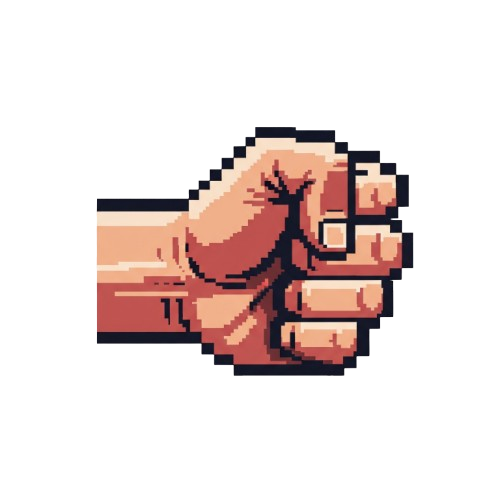
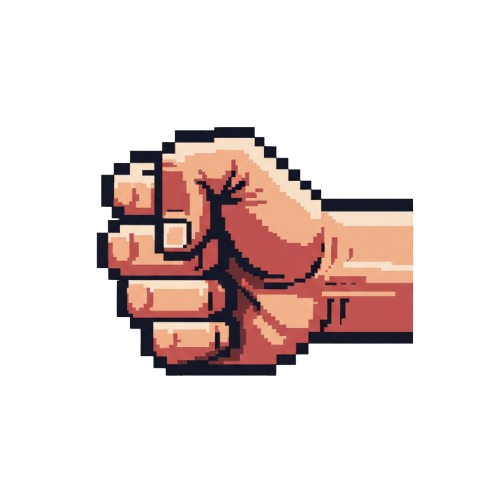
add fist

Changed region(s): [[0.18, 0.24, 0.84, 0.75]]

diff --git a/src/Items/Weapon/Fist.cpp b/src/Items/Weapon/Fist.cpp
@@ -1,29 +1,80 @@
 #include "Fist.h"
-#include <QTimer>
 
+// 构造函数：初始化我们的手动动画系统
 Fist::Fist(QObject *parent) : Weapon(parent, ":/Items/Weapon/Fist/fist.png")
 {
-    setPos(20, -90);
+    // 我们不再需要基类里的QPropertyAnimation，可以将其安全地删除
+    // 以防止它在后台引发任何问题。
+    if (animation) {
+        delete animation;
+        animation = nullptr;
+    }
+
+    setPos(-20, -90);
     setScale(0.2);
     setVisible(false);
+    isAttacking = false;
+
+    // 初始化计时器
+    animationTimer = new QTimer(this);
+    elapsedTimer = new QElapsedTimer();
+
+    // 将计时器的 timeout 信号连接到我们的动画更新函数
+    // 计时器会以大约每秒60次的频率触发，以产生流畅的动画
+    connect(animationTimer, &QTimer::timeout, this, &Fist::updateAnimation);
+    animationTimer->setInterval(1000 / 60); // 约 60 FPS
 }
 
+// attack 函数：启动手动动画
 void Fist::attack()
 {
-    if (isVisible())
-    {
+    // 如果正在攻击，则直接返回
+    if (isAttacking) {
         return;
     }
+
+    isAttacking = true;
     setVisible(true);
-    QPointF startPos = pos();
-    QPointF endPos = startPos + QPointF(50, 0);
 
-    animation->setStartValue(startPos);
-    animation->setEndValue(endPos);
-    animation->start();
+    // 记录动画的起止位置
+    animationStartPos = pos();
+    animationEndPos = animationStartPos + QPointF(-50, 0);
 
-    QTimer::singleShot(200, this, [this]()
-                       {
-        setVisible(false);
-        setPos(20, -90); });
+    // 启动两个计时器
+    elapsedTimer->start();
+    animationTimer->start();
+}
+
+// updateAnimation 槽：手动计算并设置每一帧的位置
+void Fist::updateAnimation()
+{
+    // 获取从动画开始到现在所经过的时间
+    qint64 elapsed = elapsedTimer->elapsed();
+
+    // 如果经过的时间已经超过或等于我们设定的动画总时长
+    if (elapsed >= ANIMATION_DURATION) {
+        // 动画结束
+        animationTimer->stop(); // 停止帧更新计时器
+        setPos(animationEndPos); // 确保拳头在动画的最终位置
+
+        // 短暂延迟后（让玩家能看清攻击动作），重置拳头状态
+        QTimer::singleShot(50, this, [this](){
+            setVisible(false);
+            setPos(-20, -90);
+            isAttacking = false; // 解除攻击锁
+        });
+
+        return;
+    }
+
+    // 如果动画还在进行中...
+    // 计算当前动画的完成进度 (一个 0.0 到 1.0 之间的小数)
+    qreal progress = static_cast<qreal>(elapsed) / ANIMATION_DURATION;
+
+    // 使用线性插值计算当前应该在的位置
+    // 公式: 当前位置 = 起点 + (终点 - 起点) * 进度
+    QPointF newPos = animationStartPos + (animationEndPos - animationStartPos) * progress;
+
+    // 更新拳头的位置
+    setPos(newPos);
 }

diff --git a/src/Items/Weapon/Fist.h b/src/Items/Weapon/Fist.h
@@ -2,12 +2,27 @@
 #define QT_PROGRAMMING_2024_FIST_H
 
 #include "Weapon.h"
+#include <QTimer>      // 包含 QTimer
+#include <QElapsedTimer> // 包含 QElapsedTimer
 
 class Fist : public Weapon
 {
+    Q_OBJECT // 保留 Q_OBJECT 宏是一个好习惯，但此方案不依赖它
+
 public:
     explicit Fist(QObject *parent);
     void attack() override;
+
+private slots:
+    void updateAnimation(); // 用于更新动画每一帧的槽函数
+
+private:
+    QTimer *animationTimer;          // 用来驱动动画帧更新的计时器
+    QElapsedTimer *elapsedTimer;     // 用来精确计算动画已进行时间的计时器
+    QPointF animationStartPos;       // 动画的起始位置
+    QPointF animationEndPos;         // 动画的目标位置
+    bool isAttacking;                // 一个简单的状态锁，防止重复攻击
+    static const int ANIMATION_DURATION = 100; // 动画时长 (毫秒)
 };
 
 #endif // FIST_H

diff --git a/src/Items/Armors/Armor.cpp b/src/Items/Armors/Armor.cpp
@@ -12,7 +12,7 @@ void Armor::mountToParent()
 {
     Mountable::mountToParent();
     setScale(0.6);
-    setPos(-48, -108);
+    setPos(2, -108);
     if (pixmapItem != nullptr)
     {
         pixmapItem->setPos(0, 0);

diff --git a/src/Items/Weapon/Weapon.h b/src/Items/Weapon/Weapon.h
@@ -6,7 +6,8 @@
 
 class Weapon : public Item
 {
-    Q_OBJECT
+    Q_OBJECT // <--- 必须添加此行
+
 public:
     explicit Weapon(QObject *parent, const QString &pixmapPath);
     virtual void attack() = 0;

diff --git a/src/Items/HeadEquipments/HeadEquipment.cpp b/src/Items/HeadEquipments/HeadEquipment.cpp
@@ -12,5 +12,5 @@ void HeadEquipment::mountToParent()
 {
     Mountable::mountToParent();
     setScale(0.6);
-    setPos(-55, -180);
+    setPos(-5, -180);
 }

diff --git a/src/Items/LegEquipments/LegEquipment.cpp b/src/Items/LegEquipments/LegEquipment.cpp
@@ -12,5 +12,5 @@ void LegEquipment::mountToParent()
 {
     Mountable::mountToParent();
     setScale(0.8);
-    setPos(-60, -40);
+    setPos(-10, -40);
 }
